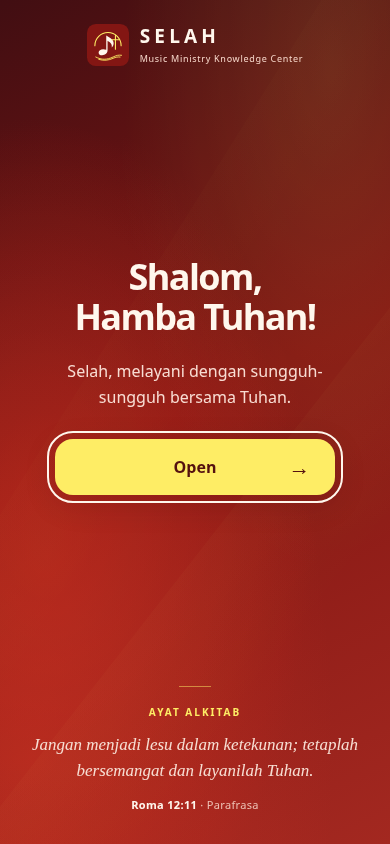
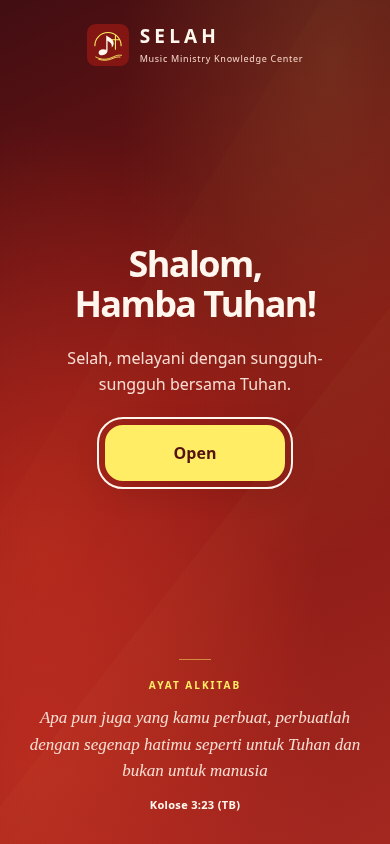
Make welcome action compact and use supplied Kolose verse

Changed region(s): [[0.1231, 0.2773, 0.8923, 0.6161], [0.0615, 0.8009, 0.9231, 0.955]]

diff --git a/index.html b/index.html
@@ -2,8 +2,8 @@
 <html lang="id"><head><meta charset="utf-8"/><meta content="width=device-width,initial-scale=1,viewport-fit=cover" name="viewport"/><meta content="#831613" name="theme-color"/><title>SELAH — Music Ministry v0.3.2</title><link rel="stylesheet" href="./assets/app.css"/><link rel="icon" href="./assets/logo.svg" type="image/svg+xml"/><link rel="manifest" href="./manifest.webmanifest"/><link rel="apple-touch-icon" href="./assets/icon-192.png"/><meta name="apple-mobile-web-app-capable" content="yes"/><meta name="description" content="SELAH — pusat pembelajaran dan persiapan pelayanan musik gereja."/></head><body><section id="welcome" class="welcome" aria-labelledby="welcomeTitle">
 <div class="welcome-inner">
   <div class="welcome-identity"><img class="welcome-logo" src="./assets/logo.svg" alt=""/><div><div class="welcome-brand">SELAH</div><div class="welcome-sub">Music Ministry Knowledge Center</div></div></div>
-  <div class="welcome-message"><h1 id="welcomeTitle">Shalom,<br/>Hamba Tuhan!</h1><p class="intro">Selah, melayani dengan sungguh-sungguh bersama Tuhan.</p><button id="enterApp" class="enter" type="button">Open <span aria-hidden="true">→</span></button></div>
-  <div class="scripture"><h2>Ayat Alkitab</h2><blockquote>Jangan menjadi lesu dalam ketekunan; tetaplah bersemangat dan layanilah Tuhan.</blockquote><cite>Roma 12:11 <span>· Parafrasa</span></cite></div>
+  <div class="welcome-message"><h1 id="welcomeTitle">Shalom,<br/>Hamba Tuhan!</h1><p class="intro">Selah, melayani dengan sungguh-sungguh bersama Tuhan.</p><button id="enterApp" class="enter" type="button">Open</button></div>
+  <div class="scripture"><h2>Ayat Alkitab</h2><blockquote>Apa pun juga yang kamu perbuat, perbuatlah dengan segenap hatimu seperti untuk Tuhan dan bukan untuk manusia</blockquote><cite>Kolose 3:23 (TB)</cite></div>
 </div></section><div id="appShell" inert><header class="top"><div class="shell"><div class="topline"><div class="brand"><span aria-hidden="true" class="mark"><img src="./assets/logo.svg" alt=""/></span><div><span class="wordmark">SELAH</span><small>Music Ministry · Heart / Skill / Unity</small></div></div><span class="version">v0.3.2 · PWA</span></div><nav aria-label="Navigasi" class="nav"><button data-page="home">Beranda</button><button data-page="library">Pustaka Lagu</button><button data-page="setlist">Rencana Ibadah</button><button data-page="academy">Akademi</button><button data-page="faith">Fondasi Rohani</button><button data-page="operations">Operasional</button><button data-page="reflection">Refleksi</button><button data-page="service">Struktur Ibadah</button><button data-page="arrange">Aransemen</button><button data-page="manage">Manajemen Lagu</button></nav></div></header><main><div class="shell">
 <section class="page active" id="home"><div class="hero"><div class="heroMain"><p class="eyebrow">SELAH / Pusat pembelajaran &amp; persiapan pelayanan</p><h1>Melayani dengan hati.<br/><em>Bertumbuh bersama.</em></h1><p class="sub">Satu ruang bagi Worship Leader, singer, pemusik, audio dan multimedia untuk bertumbuh dalam iman, keterampilan dan kesatuan — demi ibadah yang berpusat pada Tuhan.</p><div class="actions"><button class="btn primary" data-go="library">Jelajahi pustaka lagu →</button><button class="btn" data-go="setlist">Siapkan ibadah</button></div></div><div class="heroQuote"><div class="eyebrow">Renungan pelayanan</div><blockquote>Untuk siapa kita melayani?</blockquote><p>Ketika persiapan, suara dan perhatian kita dipersembahkan kepada Tuhan, tidak ada peran yang terlalu kecil.</p><small>Kolose 3:23–24 · Refleksi tema</small><button class="btn heroBtn" data-go="faith">Baca fondasi rohani →</button></div></div><div class="grid metrics"><div class="tile"><span class="num" id="homeCount">38</span><h3>Lagu dalam pustaka</h3><p>Repertoar Indonesia</p></div><div class="tile"><span class="num">6</span><h3>Segmen formal ibadah</h3><p>Sesuai alur gereja</p></div><div class="tile"><span class="num">4</span><h3>Jalur pembelajaran peran</h3><p>WL · Singer · Musik · Audio/Media</p></div></div><div class="sectionhead"><p class="eyebrow">01 / Ruang pelayanan</p><h2>Temukan ruangmu</h2></div><div class="grid modulegrid"><button class="module panel" data-go="faith"><span class="moduleNum">01</span><h3>Fondasi Rohani</h3><p>Filosofi, Alkitab dan renungan pelayanan.</p><span class="moduleLink">Buka modul →</span></button><button class="module panel" data-go="library"><span class="moduleNum">02</span><h3>Pustaka Lagu</h3><p>Repertoar publik, lirik dan profil aransemen.</p><span class="moduleLink">Buka modul →</span></button><button class="module panel" data-go="setlist"><span class="moduleNum">03</span><h3>Rencana Ibadah</h3><p>Susun setlist dan briefing enam lagu.</p><span class="moduleLink">Buka modul →</span></button><button class="module panel" data-go="academy"><span class="moduleNum">04</span><h3>Akademi Pelayanan</h3><p>Belajar sesuai peran dan bersama sebagai tim.</p><span class="moduleLink">Buka modul →</span></button><button class="module panel" data-go="operations"><span class="moduleNum">05</span><h3>Operasional</h3><p>Alur kerja, tanggung jawab dan kesiapan tim.</p><span class="moduleLink">Buka modul →</span></button><button class="module panel" data-go="reflection"><span class="moduleNum">06</span><h3>Refleksi &amp; Pertumbuhan</h3><p>Catat pembelajaran dan tindak lanjut pelayanan.</p><span class="moduleLink">Buka modul →</span></button></div><div class="sectionhead"><p class="eyebrow">02 / Service flow</p><h2>Alur ibadah kita</h2><p>Enam segmen formal, tanpa menetapkan durasi atau membatasi doa spontan.</p></div><div class="flow" id="homeFlow"></div><div class="actions"><button class="btn" data-go="service">Struktur ibadah</button><button class="btn" data-go="arrange">Panduan aransemen</button><button class="btn" data-go="manage">Manajemen lagu &amp; cadangan</button></div><div class="sectionhead"><h2>Tiga pilar SELAH</h2></div><div class="grid"><article class="panel"><p class="eyebrow">Heart</p><h3>Hati yang melayani</h3><p>Karakter, kerendahan hati dan kesetiaan. Yohanes 4:23–24.</p></article><article class="panel"><p class="eyebrow">Skill</p><h3>Keterampilan yang bertumbuh</h3><p>Persiapan, latihan dan tanggung jawab. Mazmur 33:3.</p></article><article class="panel"><p class="eyebrow">Unity</p><h3>Kesatuan dalam perbedaan</h3><p>Mendengar dan saling membangun. 1 Korintus 12:12–27.</p></article></div></section>
 <section class="page" id="faith"><div class="pagehead"><p class="eyebrow">01 / Spiritual foundation</p><h1>Filosofi &amp; renungan</h1><p class="sub">Mengapa kita melayani, sebelum membahas bagaimana kita bermain musik.</p></div><div class="grid two"><article class="panel"><h3>Tuhan adalah pusat, bukan panggung</h3><span class="ref">Yohanes 4:23–24</span><p>Yesus mengarahkan penyembahan kepada Bapa dalam roh dan kebenaran. Musik yang indah tidak menggantikan ketulusan hati; teknik yang baik menjadi sarana pelayanan, bukan ukuran kedekatan dengan Tuhan.</p></article><article class="panel"><h3>Jemaat adalah peserta, bukan penonton</h3><span class="ref">Kolose 3:16–17</span><p>Nyanyian merupakan bagian dari kehidupan bersama yang dibentuk firman Kristus. Pilih lagu dengan pesan yang dapat dipahami, melodi yang dapat dinyanyikan, dan ruang yang memungkinkan jemaat ikut bersuara.</p></article><article class="panel"><h3>Persiapan adalah bentuk tanggung jawab</h3><span class="ref">Mazmur 33:3 · 1 Korintus 14:40</span><p>Keterampilan dan ketertiban dapat melayani kasih. Berlatih, mengenal lagu, dan menyepakati cue mengurangi gangguan yang sebenarnya bisa dicegah. Ketertiban tidak berarti menutup ruang doa atau arahan pemimpin ibadah.</p></article><article class="panel"><h3>Karunia berbeda, satu tubuh</h3><span class="ref">1 Korintus 12:12–27</span><p>WL, singer, pemain musik, audio, dan multimedia memiliki tanggung jawab yang berbeda. Tidak semua harus menonjol. Dengarkan satu sama lain dan gunakan kemampuan untuk membangun pelayanan bersama.</p></article><article class="panel"><h3>Syukur tidak bergantung pada suasana</h3><span class="ref">Mazmur 100 · Habakuk 3:17–19</span><p>Pujian dapat berbentuk sukacita maupun iman di tengah pergumulan. Jangan menilai kualitas penyembahan dari kerasnya suara, lamanya pengulangan, atau ekspresi emosional seseorang.</p></article><article class="panel"><h3>Memberi sebagai respons kasih</h3><span class="ref">2 Korintus 9:7 · Roma 12:1</span><p>Persembahan lahir dari kerelaan, bukan tekanan. Seluruh hidup adalah respons kepada Tuhan; lagu persembahan mengingatkan jemaat akan syukur, bukan menjanjikan keuntungan materi.</p></article></div><div class="sectionhead"><h2>Renungan singkat sebelum pelayanan</h2></div><article class="panel"><p class="eyebrow">Bacaan · Kolose 3:12–17</p><h3>Apakah aku sedang melayani atau sedang ingin terlihat?</h3><p>Ketika lagu berjalan sesuai rencana, kita mudah merasa puas. Ketika ada kesalahan, kita mudah menyalahkan orang lain. Namun pelayanan mengundang kita untuk mengenakan kasih dan kerendahan hati, juga ketika tidak ada yang melihat kerja kita.</p><p>Hari ini, ingatlah bahwa suara pemain, singer, bahkan keputusan untuk tidak bermain, dapat menjadi bentuk kasih kepada jemaat. Berlatihlah sungguh-sungguh, lalu serahkan hasilnya kepada Tuhan.</p><p><strong>Pertanyaan refleksi:</strong> Apa yang perlu aku persiapkan? Siapa rekan yang perlu aku dukung? Apakah aku sanggup menerima koreksi tanpa kehilangan kasih?</p><p><strong>Doa:</strong> Tuhan Yesus, tuntun hati kami agar pelayanan ini memuliakan-Mu. Ajari kami mendengar, bekerja sama, dan melayani jemaat dengan rendah hati. Amin.</p></article><div class="hint">Rujukan ayat disajikan sebagai renungan dan parafrasa, bukan kutipan teks terjemahan Alkitab. Baca perikop lengkap dalam Alkitab yang digunakan gereja.</div><div class="sectionhead"><h2>Renungan berdasarkan peran</h2><p>Bacalah perikop utuh; berikut refleksi editorial singkat.</p></div><div class="grid two"><article class="panel"><span class="ref">WL · 1 Petrus 5:2–3</span><h3>Memimpin dengan teladan</h3><p>Gunakan pengaruh untuk menolong jemaat berpartisipasi, bukan untuk mengatur ekspresi setiap orang. Tanyakan: apakah arahku jelas dan penuh kasih?</p></article><article class="panel"><span class="ref">Singer · Filipi 2:3–4</span><h3>Menguatkan, bukan bersaing</h3><p>Menahan volume atau kembali ke unisono ketika diperlukan adalah pelayanan. Bagaimana suaraku bisa menolong suara yang lain?</p></article><article class="panel"><span class="ref">Pemusik · Mazmur 33:3</span><h3>Keterampilan sebagai tanggung jawab</h3><p>Latih bagian yang sulit agar ketika melayani, perhatian tersedia bagi jemaat dan rekan. Bagian mana yang perlu kupersiapkan?</p></article><article class="panel"><span class="ref">Audio &amp; Media · 1 Korintus 12:22–26</span><h3>Setia di balik layar</h3><p>Pelayanan yang tidak terlihat tetap bernilai. Apakah persiapanku membantu jemaat mendengar dan membaca dengan jelas?</p></article></div></section>

diff --git a/assets/app.css b/assets/app.css
@@ -18,8 +18,7 @@
 .welcome-message{width:100%;max-width:40rem;padding:12px 0}
 .welcome h1{font:650 clamp(2.25rem,8.8vw,4.5rem)/1.12 system-ui,-apple-system,BlinkMacSystemFont,'Segoe UI',sans-serif;letter-spacing:-.045em;margin:0;text-wrap:balance}
 .welcome .intro{font-size:1rem;line-height:1.65;color:#f8dcd2;max-width:22rem;margin:20px auto 28px;text-wrap:balance}
-.welcome .enter{position:relative;display:inline-flex;align-items:center;justify-content:center;min-height:56px;width:min(100%,280px);padding:15px 56px;border:1px solid transparent;border-radius:18px;background:var(--baby-yellow);color:#54110f;font-size:1rem;line-height:1.5;font-weight:750;box-shadow:0 8px 32px #29060926;transition:background .2s,transform .2s}
-.welcome .enter span{position:absolute;inset-inline-end:24px;top:50%;transform:translateY(-50%);font-size:1.35em;line-height:1}
+.welcome .enter{position:relative;display:inline-flex;align-items:center;justify-content:center;min-height:56px;width:min(100%,180px);padding:15px 24px;border:1px solid transparent;border-radius:18px;background:var(--baby-yellow);color:#54110f;font-size:1rem;line-height:1.5;font-weight:750;box-shadow:0 8px 32px #29060926;transition:background .2s,transform .2s}
 .welcome .enter:hover{background:#fff28e;transform:translateY(-2px)}
 .welcome .enter:active{transform:translateY(0)}
 .welcome .enter:focus-visible{outline:2px solid #fff7ed;outline-offset:6px}
@@ -28,7 +27,6 @@
 .welcome .scripture h2{font-size:.625rem;line-height:1.5;font-weight:650;letter-spacing:.2em;text-transform:uppercase;color:#feed65;margin:0}
 .welcome .scripture blockquote{font:italic 1.0625rem/1.55 Georgia,serif;color:#f7ded3;margin:12px 0}
 .welcome .scripture cite{display:block;font-size:.6875rem;line-height:1.6;font-weight:600;font-style:normal;letter-spacing:.03em;color:#fff7ed}
-.welcome .scripture cite span{color:#edc1b4;font-weight:400}
 @keyframes welcome-light{from{opacity:.55}to{opacity:1}}
 @media(min-width:768px){.welcome{padding:calc(40px + env(safe-area-inset-top,0px)) calc(40px + env(safe-area-inset-right,0px)) calc(40px + env(safe-area-inset-bottom,0px)) calc(40px + env(safe-area-inset-left,0px))}.welcome-inner{min-height:calc(100vh - 80px);min-height:calc(100dvh - 80px - env(safe-area-inset-top,0px) - env(safe-area-inset-bottom,0px))}.welcome-identity{align-self:flex-start}.welcome-message{padding:24px 0}.welcome .intro{font-size:1.125rem;max-width:26rem}}
 @media(max-height:700px){.welcome-inner{gap:20px}.welcome-message{padding:0}.welcome .intro{margin:14px auto 22px}.welcome .scripture::before{margin-bottom:12px}.welcome .scripture blockquote{margin:8px 0}}

diff --git a/docs/review/welcome/README.md b/docs/review/welcome/README.md
@@ -2,7 +2,7 @@
 
 App-shell version: **0.3.2** (increments the existing 0.3.1 release). Public catalog/content version and `assets/app.js` are unchanged.
 
-The welcome uses CSS gradients and a slow opacity animation, local system fonts, a smaller logo and a Baby Yellow action. Roma 12:11 is explicitly presented as a paraphrase. All visuals are cached with the existing app shell, without external dependencies.
+The welcome uses CSS gradients and a slow opacity animation, local system fonts, a smaller logo and a Baby Yellow action. The scripture uses the owner-supplied Kolose 3:23 text with TB attribution. Open is centered in a compact, arrow-free button. All visuals are cached with the existing app shell, without external dependencies.
 
 ## Screenshots
 
@@ -24,7 +24,7 @@ Chromium, CSS pixels, reduced motion; the visible outline shows initial keyboard
 - Reduced motion disables the light animation; normal motion enables it. Enlarged default text (root font size 32px) remains horizontally contained and all welcome content can be reached by scrolling.
 - Supplemental 320 × 400 check confirms vertical scrolling reaches the scripture and Open button.
 - At all four main sizes, offline reload retains the new welcome, 38-song library and dummy academy progress; saved storage is unchanged by welcome dismissal/reopening and reload.
-- Separate temporary fixture upgraded the actual 0.3.1 shell to 0.3.2: waiting/update notice, close/reopen activation, new yellow button and Roma 12:11, old cache cleanup and offline reload pass. A dummy local song-key edit and academy progress survive byte-for-byte in local storage.
+- Separate temporary fixture upgraded the actual 0.3.1 shell to 0.3.2: waiting/update notice, close/reopen activation, new welcome, old cache cleanup and offline reload pass. A dummy local song-key edit and academy progress survive byte-for-byte in local storage.
 - Only welcome markup/styles, viewport metadata and displayed app version changed in HTML/CSS. Song data, legacy baseline, app logic and other module markup remain unchanged.
 
 ## Reproduce browser checks

diff --git a/CHANGELOG.md b/CHANGELOG.md
@@ -2,8 +2,8 @@
 
 ## 0.3.2 — 2026-11-15
 - Redesigned only the welcome screen with an edge-to-edge Holy Fire background, soft animated light, compact logo, sans-serif hierarchy and Baby Yellow Open button.
-- Centered the Open label independently of its right-side arrow.
-- Integrated Roma 12:11 as a clearly labeled paraphrase, with no separate scripture card.
+- Made the Open button compact (180px maximum), centered its label and removed the arrow.
+- Integrated the owner-supplied Kolose 3:23 text with TB attribution, with no separate scripture card.
 - Added dynamic viewport sizing, safe-area padding, small-screen scrolling and reduced-motion support; all visuals remain available offline.
 - Synchronized app, displayed and service-worker cache versions; song catalog and local-data behavior remain unchanged.
 
